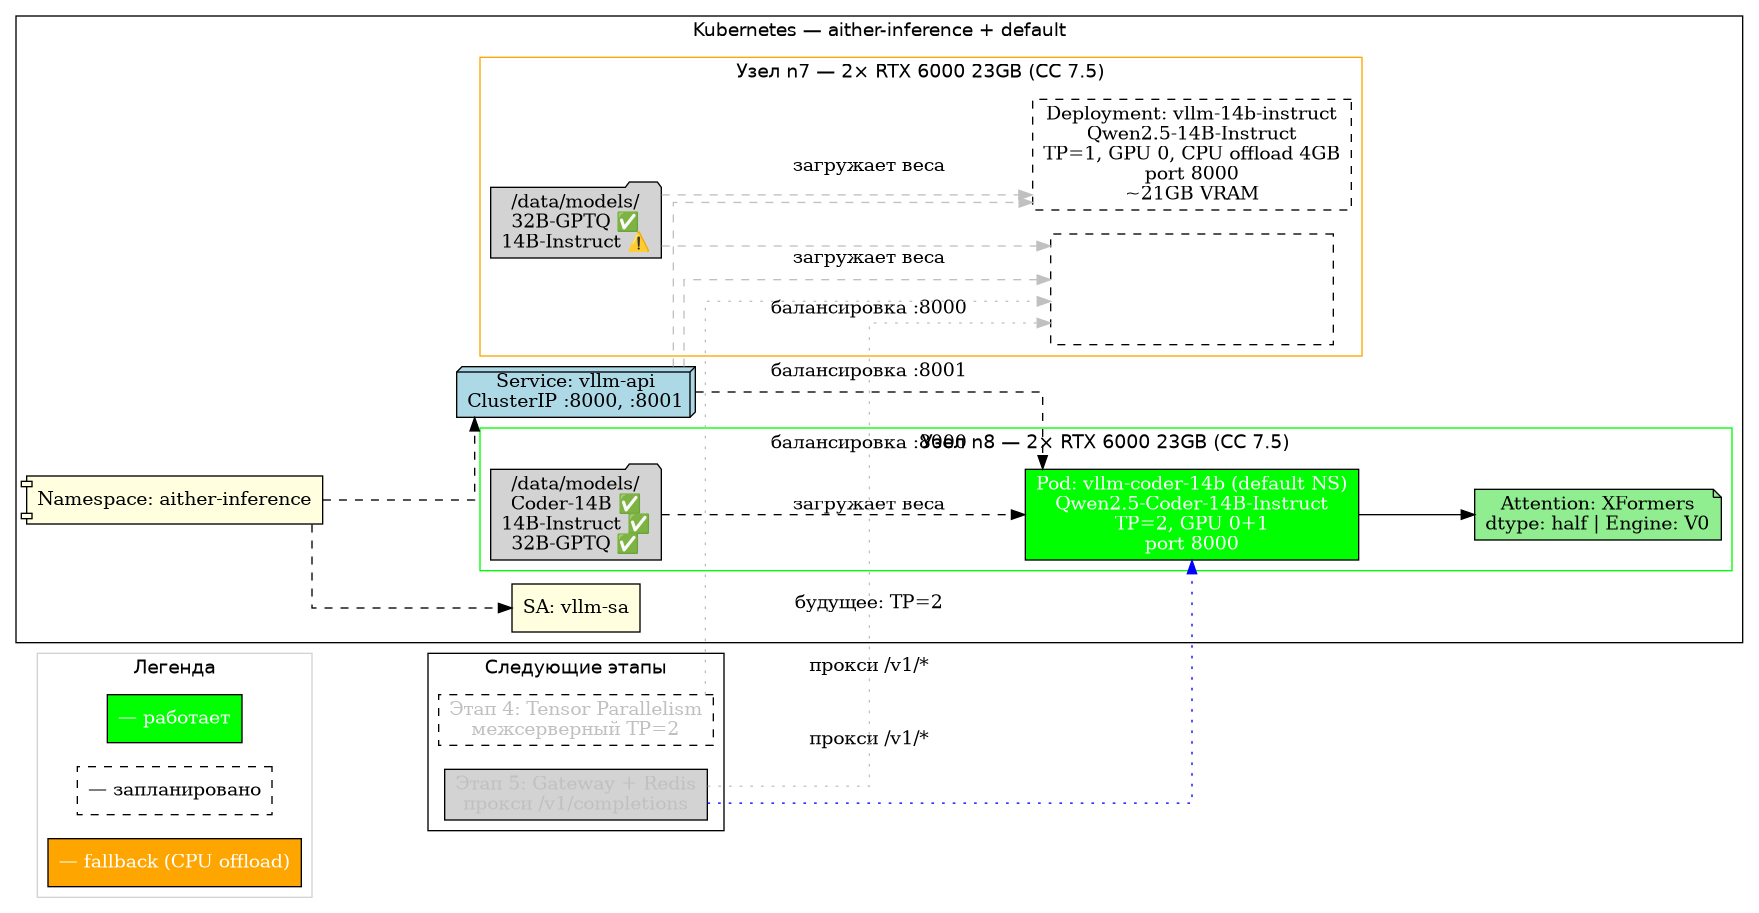
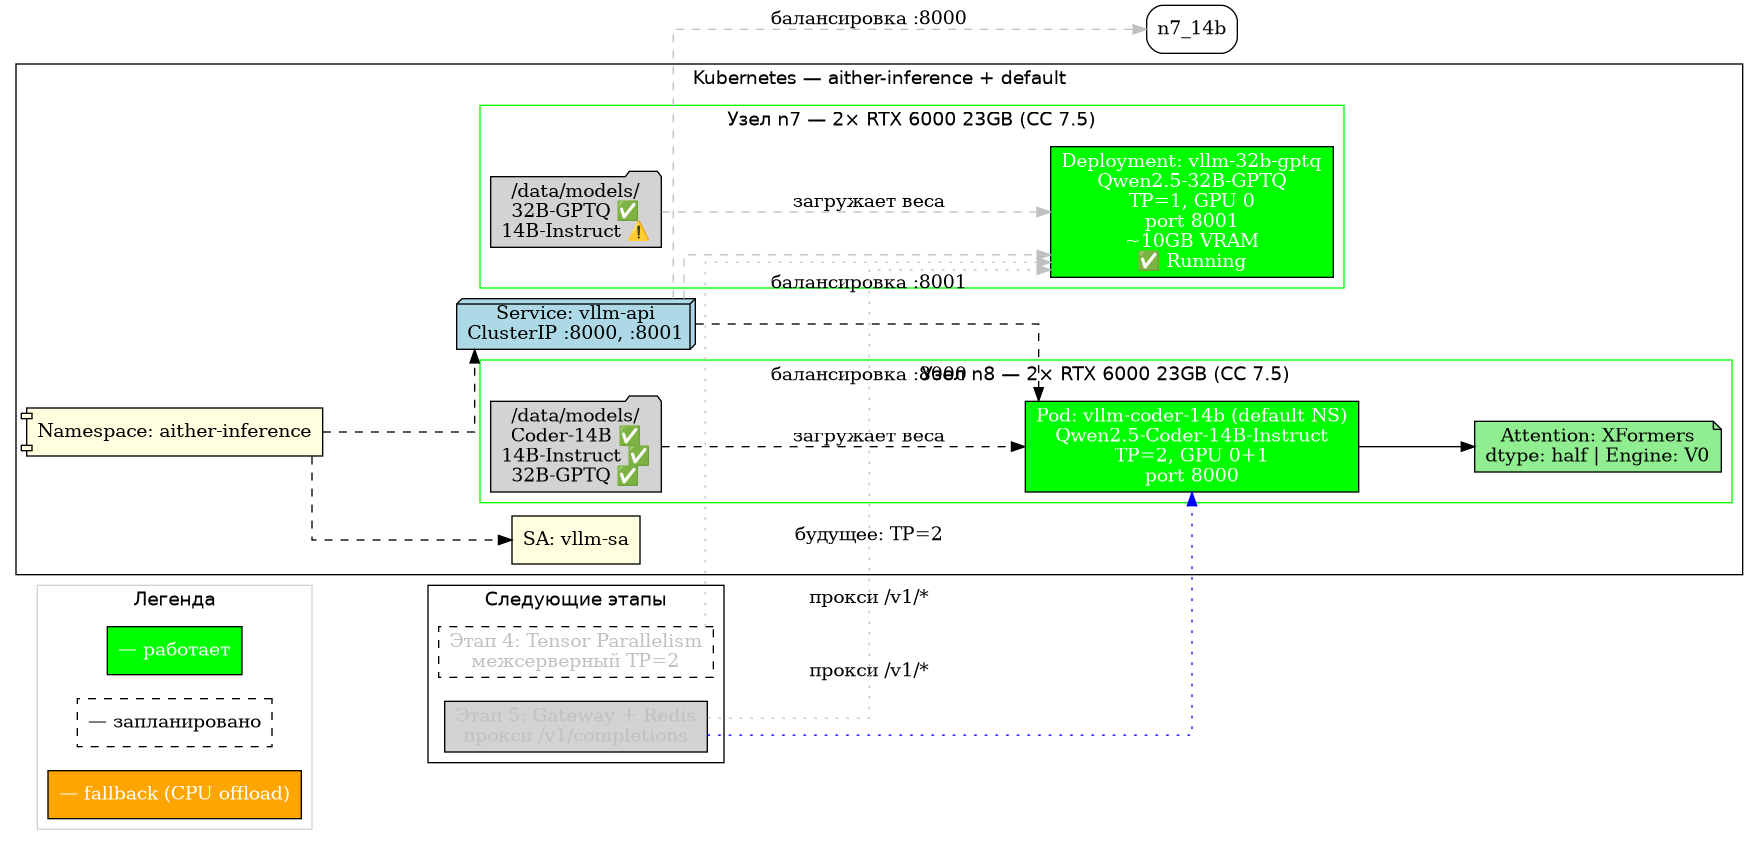
feat: 32B-GPTQ deployment working on n7, update docs and diagrams

diff --git a/aither-v2/03-vllm-14b-deploy/README.md b/aither-v2/03-vllm-14b-deploy/README.md
@@ -36,8 +36,8 @@
 
 | Узел | Роль | GPU | Модели на диске |
 |------|------|-----|-----------------|
-| **n8** (`10.129.13.78`) | Worker + control-plane | 2× RTX 6000 23GB | `Qwen2.5-Coder-14B-Instruct` (работает) `Qwen2.5-14B-Instruct` `Qwen2.5-32B-GPTQ` |
-| **n7** (`10.129.13.77`) | Worker | 2× RTX 6000 23GB | `Qwen2.5-32B-GPTQ` (готов к запуску) `Qwen2.5-14B-Instruct` (частично) |
+| **n8** (`10.129.13.78`) | Worker + control-plane | 2× RTX 6000 23GB | `Qwen2.5-Coder-14B-Instruct` ✅ Running, `Qwen2.5-14B-Instruct`, `Qwen2.5-32B-GPTQ` |
+| **n7** (`10.129.13.77`) | Worker | 2× RTX 6000 23GB | `Qwen2.5-32B-GPTQ` ✅ Running (порт 8001), `Qwen2.5-14B-Instruct` (частично) |
 
 > **Важно:** RTX 6000 (Turing, CC 7.5) **не поддерживает bfloat16**. Все модели запускать с `--dtype half` (float16).
 
@@ -61,7 +61,7 @@
                                │
                     ┌──────────▼───────────┐
                     │  Service: vllm-api   │
-                    │  ClusterIP :8000     │
+                    │  ClusterIP :8000/8001│
                     └──────────┬───────────┘
                                │
           ┌────────────────────┴────────────────────┐
@@ -71,7 +71,8 @@
 │ Coder-14B-Instruct │                 │ 32B-GPTQ             │
 │ TP=2, port 8000    │                 │ TP=1, port 8001      │
 │ ──────────────     │                 │ ──────────────       │
-│ ✅ Работает        │                 │ ❌ Ждёт развёртывания │
+│ ✅ Running         │                 │ ✅ Running           │
+│ (default NS)       │                 │ (aither-inference)   │
 └────────────────────┘                 └──────────────────────┘
 ```
 
@@ -83,13 +84,13 @@
 |-----------|--------|------------|
 | **Namespace** aither-inference | ✅ Создан | — |
 | **ServiceAccount** vllm-sa | ✅ Создан | С правами на pods/log |
-| **Service** vllm-api | ✅ ClusterIP :8000 | Порт 8001 добавлен для 32B |
-| **PV / PVC** | ❌ Не используется | Используется `hostPath: /data/models` на каждой ноде |
+| **Service** vllm-api | ✅ ClusterIP :8000/8001 | Порт 8001 для 32B |
+| **PV / PVC** | ❌ Не используется | `hostPath: /data/models` на каждой ноде |
 | **Deployment: Coder-14B** (n8) | ✅ **Running** | TP=2, оба GPU, default namespace |
-| **Deployment: 14B-Instruct** (n7) | ❌ CrashLoopBackOff | OOM — 14B fp16 не влезает в 23GB |
-| **Deployment: 32B-GPTQ** (n7) | ❌ Не развёрнут | Модель на диске ✅, ждёт запуска |
+| **Deployment: 32B-GPTQ** (n7) | ✅ **Running** | TP=1, GPU 0, порт 8001, модель `qwen-32b` |
+| **Deployment: 14B-Instruct** (n7) | ❌ Удалён | OOM — 14B fp16 не влезает в 23GB RTX 6000 |
 | GPU в Capacity | ✅ 2/2 на n8, 2/2 на n7 | — |
-| NVIDIA RuntimeClass | ✅ nvidia | — |
+| NVIDIA RuntimeClass | ✅ nvidia | Создан |
 
 ### Почему 14B не работает на 1× RTX 6000
 
